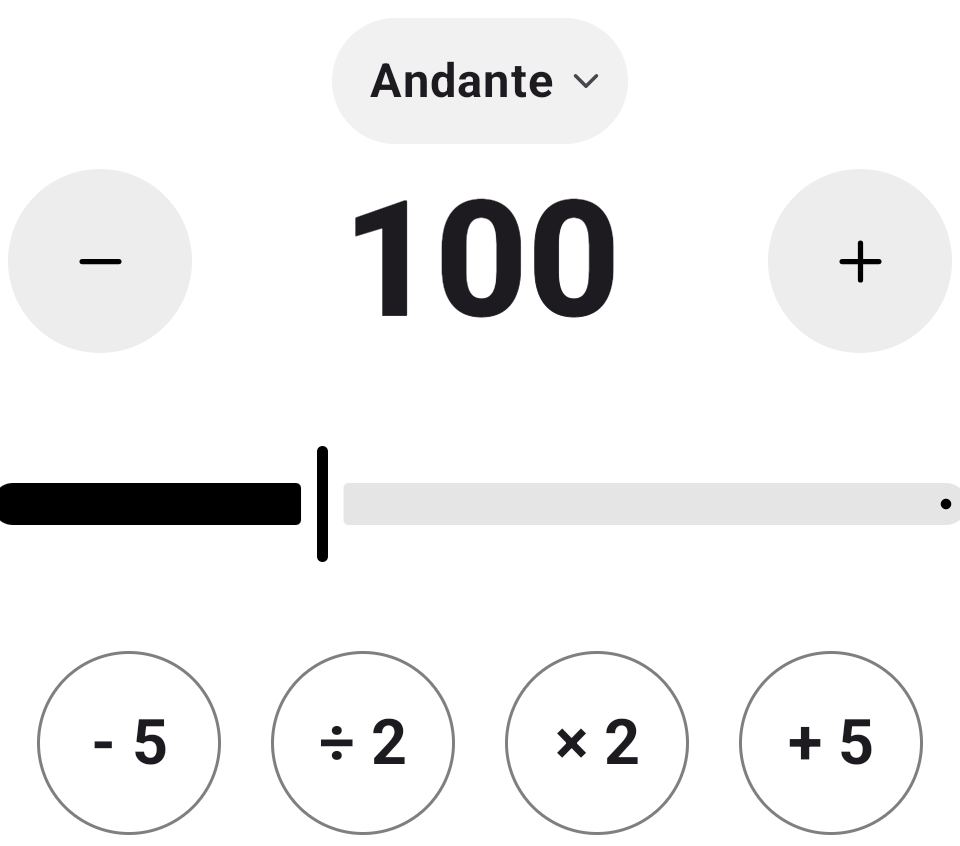
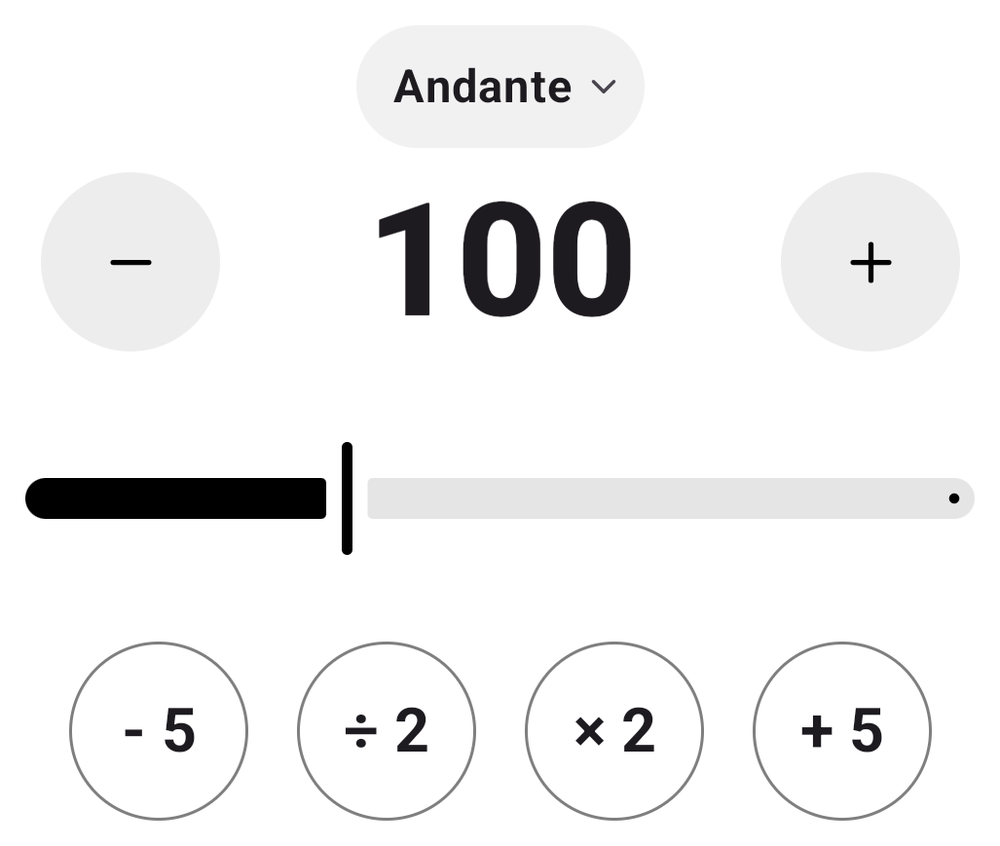
fix(site): uncut proof frames, a legible mark, and ruling that stays behind the words
The five proof crops were cut on every side: the tempo frame lost the slider
fill and the -5 control because the box started inside the app's own padding,
the gap strip lost its lower edge, and tempo, session and settings each carried
a sliced row hanging off one end. Cropping from the full capture width fixes
the horizontal cuts, but trimming to ink still slices whatever row sits next
door, so each frame is now snapped to bands of uniform background found by
profiling the source. The cut falls in the gaps between rows, never through a
control. Every width/height attribute follows the new files.

The mark read small because of its own geometry, not its CSS size: the artwork
filled 41% of a 7654 viewBox behind a translate and a 0.58 scale, so 21px of
box drew 9px of glyph. The viewBox now targets the artwork's real bounds.

Two defects found while checking that work:

The lattice was striking through the body copy. .field::before is absolutely
positioned, so it painted after the in-flow text it shares a box with -- moving
the ruling off the element earlier stopped the mask fading the text and bought
this instead. It gets its own negative layer, isolated so it still sits above
the ground it is drawn on.

Anchor links parked their headings under the sticky bar, since nothing declared
scroll-padding-top.

Also from a pre-publish review: the hero and the tempo crop shared one alt
string that described neither of them well and, after the re-crop, described
[…]

diff --git a/docs/index.html b/docs/index.html
@@ -103,6 +103,9 @@
             -webkit-text-size-adjust: 100%;
             scroll-behavior: smooth;
             scrollbar-color: var(--rule-strong) var(--ground);
+            /* The bar is sticky, so an untreated anchor jump parks the heading
+               underneath it. One bar height plus half a band of air. */
+            scroll-padding-top: calc(var(--bar-h) + var(--lh) / 2);
         }
         @media (prefers-reduced-motion: reduce) { html { scroll-behavior: auto; } }
 
@@ -153,7 +156,7 @@
             backdrop-filter: saturate(1.4) blur(10px);
             border-bottom: 1px solid var(--rule-strong);
         }
-        .mark-logo { width: 21px; height: 21px; margin-right: 9px; display: block; fill: currentColor; }
+        .mark-logo { width: 26px; height: 26px; margin-right: 10px; display: block; fill: currentColor; }
         .mark { font-size: 20px; font-weight: 800; letter-spacing: -0.03em; text-decoration: none; display: inline-flex; align-items: center; min-height: 44px; }
         .meter {
             font-size: 12px; font-weight: 600;
@@ -263,10 +266,14 @@
            anywhere else the rules cross letterforms mid-stem and the two
            patterns resolve as moire, which is what "too many stripes" was. */
         /* The ruling lives on its own layer. Masking the element itself also
-           masked its text, which faded the first line of every paragraph. */
-        .field { position: relative; }
+           masked its text, which faded the first line of every paragraph.
+           An absolute pseudo-element paints after the in-flow text it shares
+           the box with, so it needs its own negative layer or it strikes the
+           copy through; isolate keeps that layer above the ancestor ground. */
+        .field { position: relative; isolation: isolate; }
         .field::before {
             content: ''; position: absolute; inset: 0; pointer-events: none;
+            z-index: -1;
             background-image: repeating-linear-gradient(to bottom,
                 transparent 0,
                 transparent calc(var(--rule-y) - var(--rule-w)),
@@ -463,6 +470,12 @@
         .close h2 { max-width: min(18ch, var(--measure)); }
         .close .say { color: color-mix(in srgb, var(--on-accent) 88%, var(--accent-deep)); }
         .close .badge--play img { filter: none; }
+        /* The ledger separator is a mark on the ruled ground. The closing band
+           is its own surface and paints its fill before the pseudo-element, so
+           the rule would land on the green and stop at the measure. */
+        .entry + .entry.close::before { content: none; }
+        /* --accent on --accent-deep is 1.74:1: no visible focus ring in the band. */
+        .close :focus-visible { outline-color: var(--on-accent); }
 
         /* ---------- footer ---------- */
         footer { padding: var(--lh) 0 calc(var(--lh) * 2); border-top: 1px solid var(--rule-strong); }
@@ -474,7 +487,7 @@
                 display: flex; flex-wrap: wrap; gap: 0 22px;
                 margin-bottom: var(--lh);
             }
-            .foot-nav a { display: inline-flex; align-items: center; min-height: 44px; font-size: 15px; font-weight: 600; }
+            .foot-nav a { display: inline-flex; align-items: center; justify-content: center; min-height: 44px; min-width: 44px; font-size: 15px; font-weight: 600; }
         }
         .foot-links { display: flex; flex-wrap: wrap; gap: 4px 22px; font-size: 15px; margin-bottom: 12px; }
         .foot-links a { display: inline-flex; align-items: center; min-height: 44px; }
@@ -502,7 +515,7 @@ FINISH: unreviewed and undocumented is unfinished; this build ends with the fini
 <div class="playhead" id="playhead" aria-hidden="true"></div>
 
 <header class="bar">
-    <a class="mark" href="#top"><svg class="mark-logo" xmlns="http://www.w3.org/2000/svg" viewBox="0 0 7654 7654" aria-hidden="true" focusable="false"><g transform="translate(1607.34,1607.34) scale(0.58)"><path fill="currentColor" d="M5305.1,2767.8L6117,1414.7l-468.4,-281.6l-662.4,1104.4l-304.3,-507.5c-266.7,-443.9 -842.8,-587.4 -1286.6,-320.7c-131.5,79 -241.7,189.2 -320.7,320.7l-1770.4,2955c-317.5,529 -146.1,1215.2 382.8,1532.8c173.6,104.2 372.3,159.3 574.8,159.3h3232.9c616.6,-1 1116.1,-500.6 1117.1,-1117.1v-10.9c-0.2,-203 -55.6,-402 -160.4,-575.9L5305.1,2767.8zM3543.8,2014.2c111.4,-184.9 351.6,-244.6 536.5,-133.2c54.6,32.9 100.3,78.6 133.2,133.2l455.6,754.5L3595.7,4554.6H2019.4L3543.8,2014.2zM4987.1,3299l755.4,1255.6H4233.6L4987.1,3299zM6065.1,5259.9c0,315 -255.4,570.4 -570.4,570.4l0,0H2261.7c-314.5,0 -569.5,-255 -569.5,-569.5c0,-54 7.7,-107.7 22.8,-159.5h4330c13,47.8 19.8,97.1 20,146.7V5259.9z"/></g></svg>Metronome</a>
+    <a class="mark" href="#top"><svg class="mark-logo" width="26" height="26" xmlns="http://www.w3.org/2000/svg" viewBox="980.7 857.6 5795.1 5795.1" aria-hidden="true" focusable="false"><g><path fill="currentColor" d="M5305.1,2767.8L6117,1414.7l-468.4,-281.6l-662.4,1104.4l-304.3,-507.5c-266.7,-443.9 -842.8,-587.4 -1286.6,-320.7c-131.5,79 -241.7,189.2 -320.7,320.7l-1770.4,2955c-317.5,529 -146.1,1215.2 382.8,1532.8c173.6,104.2 372.3,159.3 574.8,159.3h3232.9c616.6,-1 1116.1,-500.6 1117.1,-1117.1v-10.9c-0.2,-203 -55.6,-402 -160.4,-575.9L5305.1,2767.8zM3543.8,2014.2c111.4,-184.9 351.6,-244.6 536.5,-133.2c54.6,32.9 100.3,78.6 133.2,133.2l455.6,754.5L3595.7,4554.6H2019.4L3543.8,2014.2zM4987.1,3299l755.4,1255.6H4233.6L4987.1,3299zM6065.1,5259.9c0,315 -255.4,570.4 -570.4,570.4l0,0H2261.7c-314.5,0 -569.5,-255 -569.5,-569.5c0,-54 7.7,-107.7 22.8,-159.5h4330c13,47.8 19.8,97.1 20,146.7V5259.9z"/></g></svg>Metronome</a>
     <span class="meter">4/4</span>
     <span class="bar-spacer"></span>
     <a class="bar-link" href="#practice">Practice tools</a>
@@ -530,7 +543,7 @@ FINISH: unreviewed and undocumented is unfinished; this build ends with the fini
                 <p class="aside">An example entry. Your own practice time, tempos and streak are recorded on your device.</p>
             </div>
             <div class="screen screen--hero">
-                <img src="screenshots/app-main.png" width="560" height="1244" fetchpriority="high" alt="The metronome screen at 100 BPM in 4/4, marked Andante, with beat dots, tempo slider and the play, timer and tap tempo controls.">
+                <img src="screenshots/app-main.png" width="560" height="1244" fetchpriority="high" alt="The metronome screen running at 100 BPM in 4/4, marked Andante: four beat dots with the first accented, the tempo slider and fine steps, and a bottom bar holding a 9:06 timer, pause, and tap tempo.">
             </div>
         </div>
 
@@ -571,7 +584,7 @@ FINISH: unreviewed and undocumented is unfinished; this build ends with the fini
                 </div>
             </div>
             <figure class="proof">
-                <img src="screenshots/detail-main.png" width="960" height="846" loading="lazy" alt="The metronome screen at 100 BPM in 4/4, marked Andante, with beat dots, tempo slider and the play, timer and tap tempo controls.">
+                <img src="screenshots/detail-main.png" width="1000" height="846" loading="lazy" alt="The tempo cluster: an Andante marking pill above 100 BPM, minus and plus buttons either side, the tempo slider, and the minus 5, halve, double and plus 5 shortcuts.">
                 <figcaption>The tempo cluster: marking, BPM, fine steps and the slider.</figcaption>
             </figure>
         </div>
@@ -585,7 +598,7 @@ FINISH: unreviewed and undocumented is unfinished; this build ends with the fini
                 <p class="say field">The Gap Trainer plays a set number of bars, then goes quiet for a set number while the beat keeps counting underneath. You hold the pulse yourself, and find out whether you are still with the click when it comes back. It is the most direct way to train an internal clock.</p>
             </div>
             <figure class="proof">
-                <img src="screenshots/detail-gap.png" width="1000" height="101" loading="lazy" alt="The Gap Trainer running, with a status strip reading Muted, bar 2 of 2, over a 4 plus 2 bar cycle.">
+                <img src="screenshots/detail-gap.png" width="1000" height="162" loading="lazy" alt="The Gap Trainer running, with a status strip reading Muted, bar 2 of 2, over a 4 plus 2 bar cycle.">
                 <figcaption>The status strip while the Gap Trainer is muted: bar 2 of 2 of a 4 plus 2 bar cycle.</figcaption>
             </figure>
         </div>
@@ -604,7 +617,7 @@ FINISH: unreviewed and undocumented is unfinished; this build ends with the fini
                 </ul>
             </div>
             <figure class="proof">
-                <img src="screenshots/detail-tempo.png" width="955" height="404" loading="lazy" alt="The Tempo Trainer sheet set to climb from 80 to 120 BPM in steps of 2 every 4 bars, totalling 80 bars or about 3 minutes.">
+                <img src="screenshots/detail-tempo.png" width="1000" height="423" loading="lazy" alt="The Tempo Trainer's step controls, with a step of plus 2 selected and held every 4 bars, summarised underneath as 80 bars or about 3 minutes.">
                 <figcaption>A climb configured to step +2 every 4 bars: 80 bars, about 3 minutes.</figcaption>
             </figure>
         </div>
@@ -618,7 +631,7 @@ FINISH: unreviewed and undocumented is unfinished; this build ends with the fini
                 <p class="say field">Save a whole setup as a preset: tempo, meter, subdivision, accents and count-in. Then order those presets into a practice set, each step with a time or bar goal. You decide when to move on; nothing advances behind your back.</p>
             </div>
             <figure class="proof">
-                <img src="screenshots/detail-session.png" width="1000" height="403" loading="lazy" alt="A practice session in progress showing step 2 of 3, Scales at 100 BPM in 4/4, three of five minutes done, with Etude up next.">
+                <img src="screenshots/detail-session.png" width="1000" height="425" loading="lazy" alt="A practice session card reading step 2 of 3, Scales, 100 BPM in 4/4, three of five minutes done.">
                 <figcaption>Step 2 of 3 of a saved practice set, three of five minutes done.</figcaption>
             </figure>
         </div>
@@ -638,7 +651,7 @@ FINISH: unreviewed and undocumented is unfinished; this build ends with the fini
                 </ul>
             </div>
             <figure class="proof">
-                <img src="screenshots/detail-settings.png" width="1000" height="560" loading="lazy" alt="The settings screen with click sound, volume, stereo panning, haptic feedback, theme and colour scheme options.">
+                <img src="screenshots/detail-settings.png" width="1000" height="548" loading="lazy" alt="The appearance settings, with Theme set to Light alongside System and Dark, above a row of colour scheme swatches.">
                 <figcaption>Theme and colour scheme, both stored on your device.</figcaption>
             </figure>
         </div>
